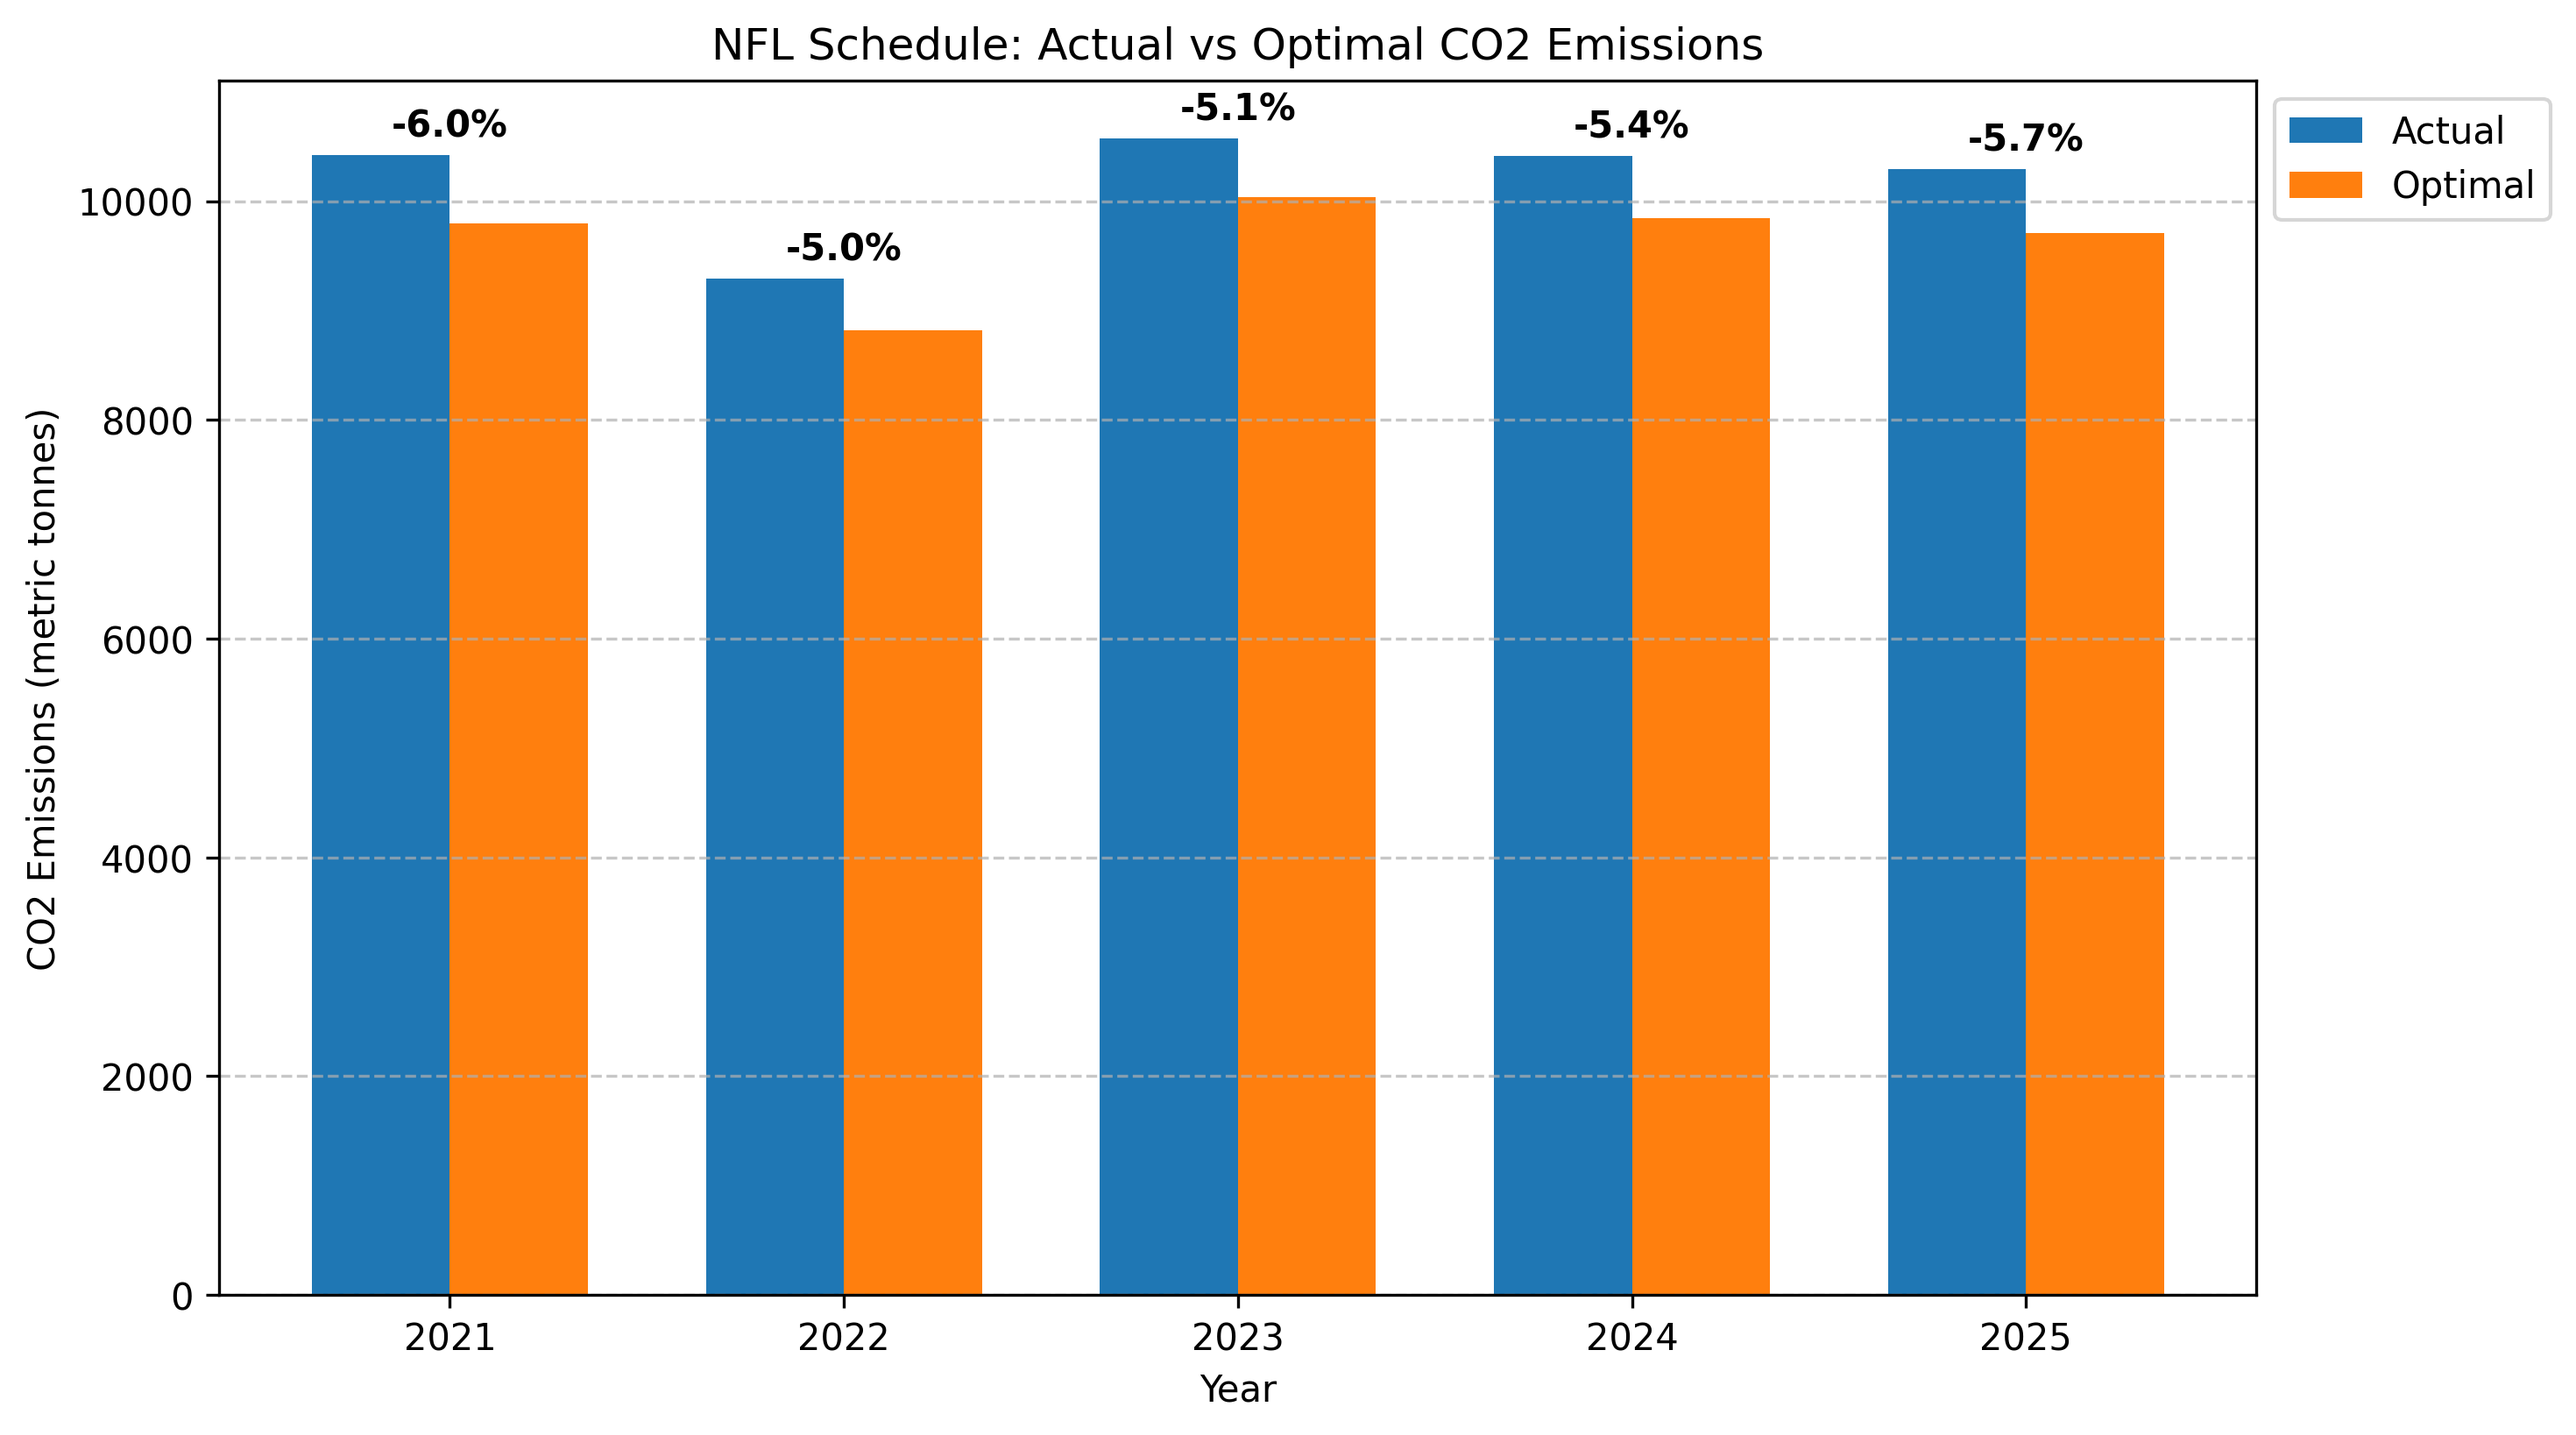
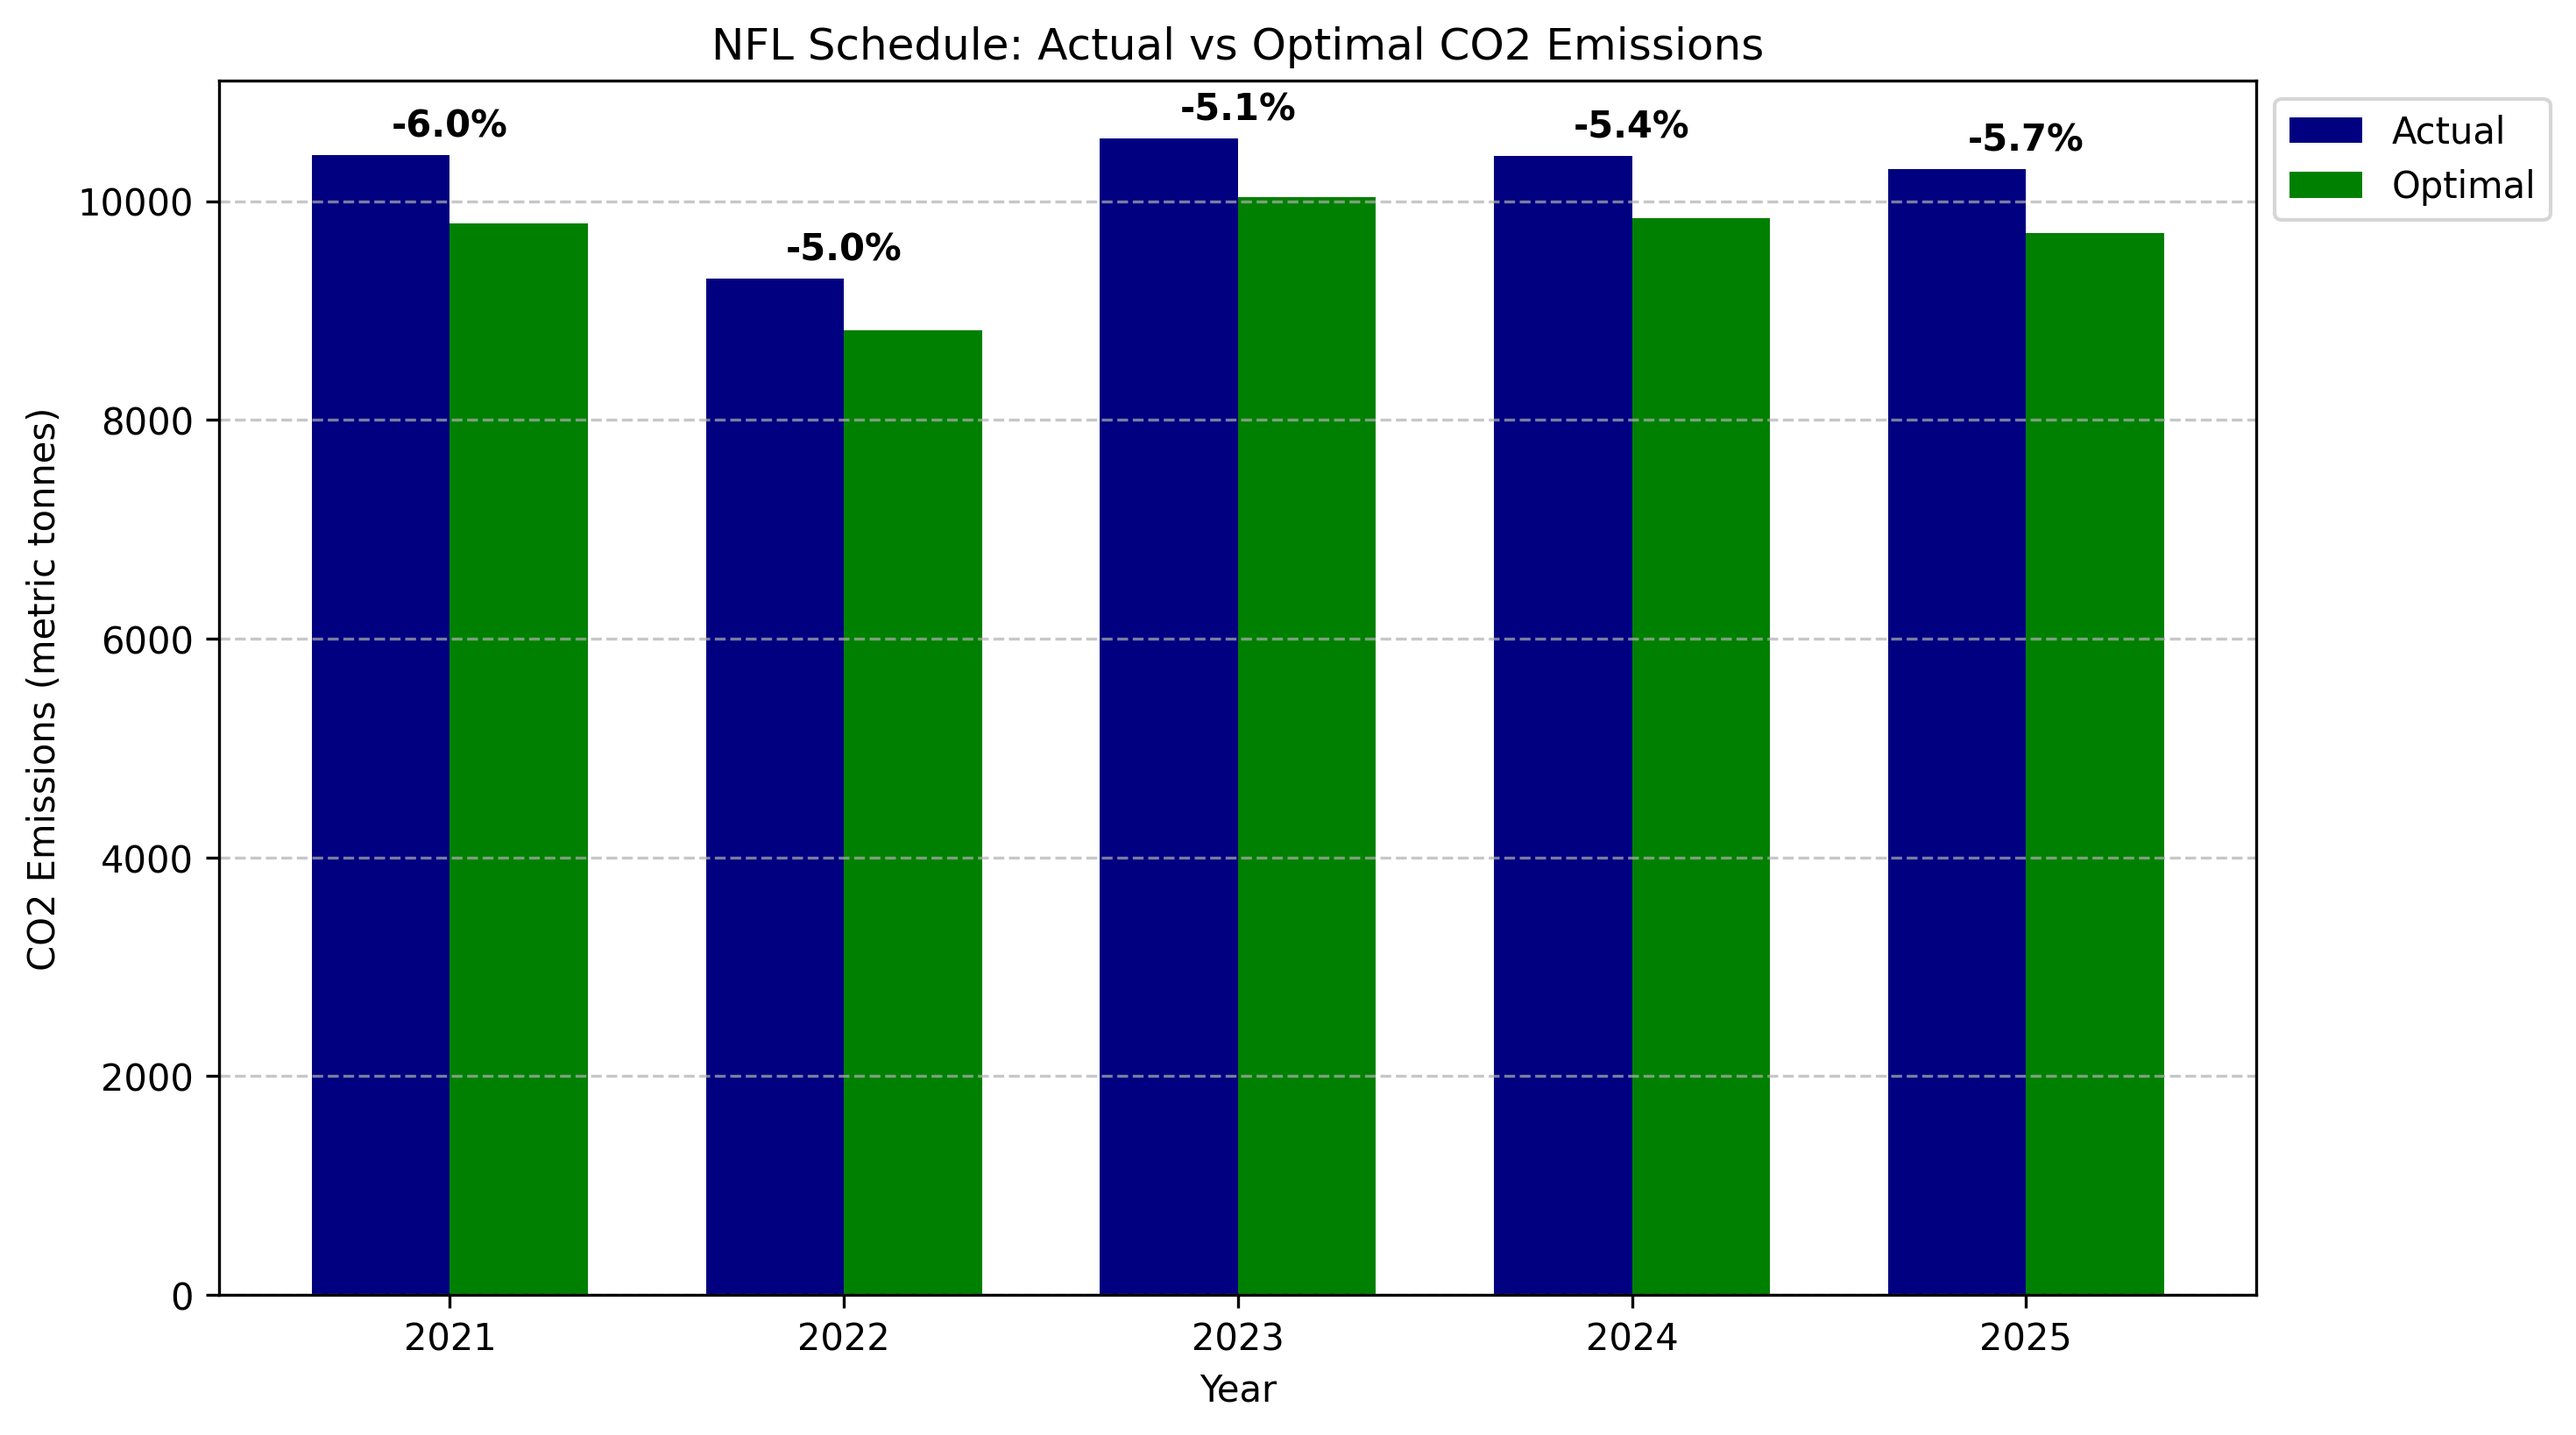
update readme

diff --git a/results/results.py b/results/results.py
@@ -14,8 +14,8 @@ width = 0.35
 
 fig, ax = plt.subplots(figsize=(10,6))
 
-rects1 = ax.bar(x - width/2, df['actual_value'], width, label='Actual')
-rects2 = ax.bar(x + width/2, df['optimal_value'], width, label='Optimal')
+rects1 = ax.bar(x - width/2, df['actual_value'], width, label='Actual', color='navy')
+rects2 = ax.bar(x + width/2, df['optimal_value'], width, label='Optimal', color='green')
 
 ax.set_xlabel('Year')
 ax.set_ylabel('CO2 Emissions (metric tonnes)')

diff --git a/README.md b/README.md
@@ -8,7 +8,6 @@ The chart below compares the total travel-related carbon emissions (in metric to
 
 ![Emissions Comparison](results/emissions_comparison_bar_metric_tonnes.png)
 
----
 
 ## Raw Data
 
@@ -25,7 +24,16 @@ The chart below compares the total travel-related carbon emissions (in metric to
 
 </details>
 
---- 
+## How it Works
+
+1. Matchup Algorithm  
+   NFL season matchups are determined using the previous season’s in-division rankings of each team and a rotating schedule of divisional matchups. Playwright was used to scrape the official NFL website to obtain these rankings which were fed through an algorithm to generate each season’s matchups.
+
+2. Optimization Model  
+   A Binary Integer Programming model was formulated in PuLP and solved using CBC to produce a season schedule that minimizes travel-related carbon emissions.
+
+3. Benchmarking  
+   The SportsBlaze API was used to fetch the actual NFL schedules, which were then compared to the optimized schedules to evaluate carbon savings.
 
 The optimal NFL schedule for each year can be found in:
 
